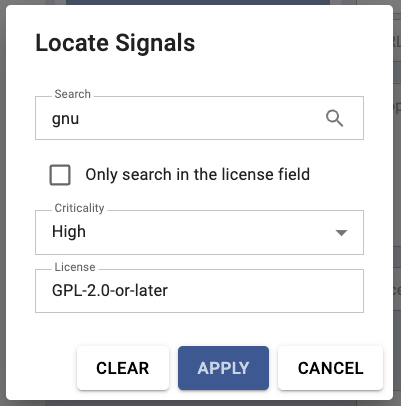
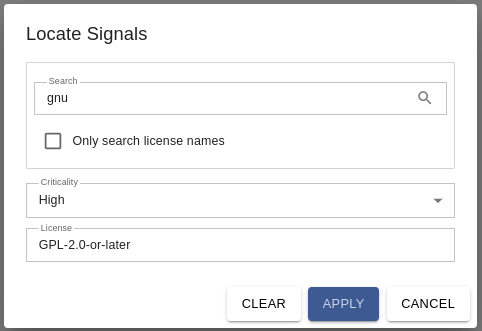
Improve styling in Locator popup
This diffs adds a border around the search and the associated checkbox to clarify where the checkbox belongs to. The corresponding screenshot in the documentation is also updated.

diff --git a/src/Frontend/Components/LocatorPopup/LocatorPopup.tsx b/src/Frontend/Components/LocatorPopup/LocatorPopup.tsx
@@ -29,6 +29,7 @@ import MuiTypography from '@mui/material/Typography';
 import { compareAlphabeticalStrings } from '../../util/get-alphabetical-comparer';
 import { locateSignalsFromLocatorPopup } from '../../state/actions/popup-actions/popup-actions';
 import { SearchTextField } from '../SearchTextField/SearchTextField';
+import MuiBox from '@mui/material/Box';
 
 const classes = {
   dropdown: {
@@ -42,6 +43,12 @@ const classes = {
   checkboxContainer: {
     display: 'flex',
     alignItems: 'center',
+  },
+  search: {
+    padding: '8px',
+    border: '1px solid lightgrey',
+    marginBottom: '16px',
+    borderRadius: '2px',
   },
 };
 
@@ -134,23 +141,25 @@ export function LocatorPopup(): ReactElement {
 
   const content = (
     <>
-      <SearchTextField
-        sx={classes.autocomplete}
-        onInputChange={(search: string): void => {
-          setSearchedSignal(search);
-        }}
-        search={searchedSignal}
-        showIcon={true}
-      />
-      <Checkbox
-        sx={classes.checkboxContainer}
-        label={CheckboxLabel.OnlyLicenseName}
-        checked={displaySearchOnlyLicenseName}
-        disabled={searchedSignal === ''}
-        onChange={(): void => {
-          setDisplaySearchOnlyLicenseName(!displaySearchOnlyLicenseName);
-        }}
-      />
+      <MuiBox sx={classes.search}>
+        <SearchTextField
+          sx={classes.autocomplete}
+          onInputChange={(search: string): void => {
+            setSearchedSignal(search);
+          }}
+          search={searchedSignal}
+          showIcon={true}
+        />
+        <Checkbox
+          sx={classes.checkboxContainer}
+          label={CheckboxLabel.OnlyLicenseName}
+          checked={displaySearchOnlyLicenseName}
+          disabled={searchedSignal === ''}
+          onChange={(): void => {
+            setDisplaySearchOnlyLicenseName(!displaySearchOnlyLicenseName);
+          }}
+        />
+      </MuiBox>
       <Dropdown
         sx={classes.dropdown}
         isEditable={true}
